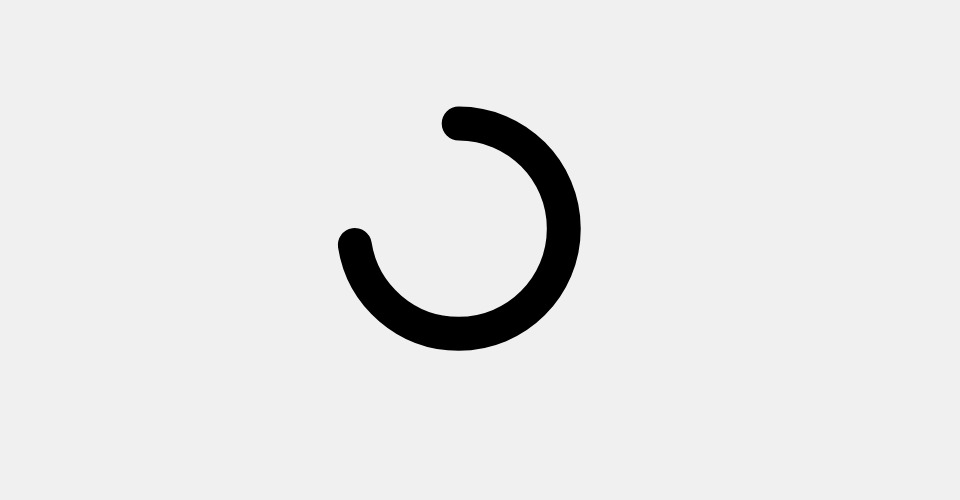
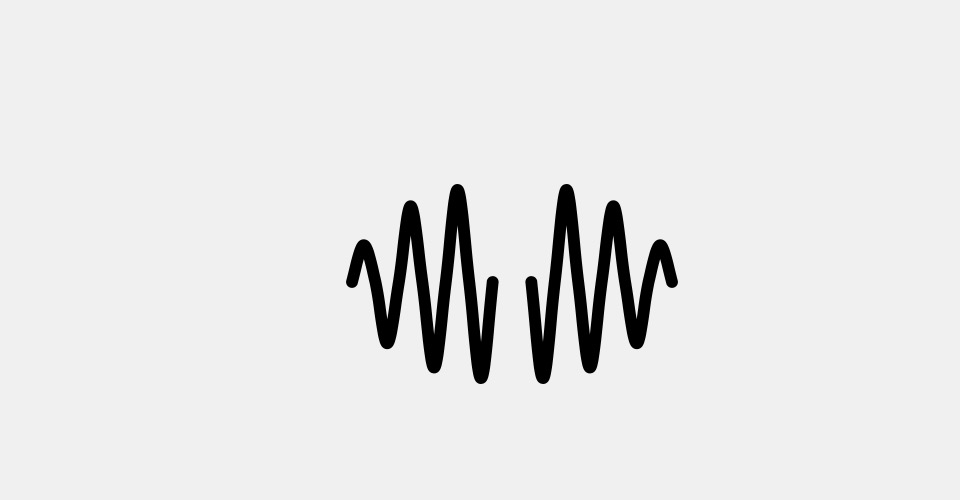
Concept two - wave

Changed region(s): [[0.3438, 0.21, 0.7188, 0.78]]

diff --git a/glyph.js b/glyph.js
@@ -27,29 +27,86 @@ function Glyph() {
    */ 
   this.draw = function(values, size) {
 
-    angleMode(DEGREES);
-    noFill();
-
     let hueValue = values[0];
     let satValue = values[1];
     let ligValue = values[2];
 
-    let strokeW = map(satValue,0,100,size/20,size/6);
-    let glyphRadius = map(ligValue,0,100,1, size-strokeW);
+    let pointNum = map(satValue,0,100,1,18);
+    let strokeW = map(ligValue,0,100,size/100,size/20);
 
-    translate(size/3,size/3);
-    rotate(-90);
+    var bounding = new WaveBoundingSphere(hueValue, size);
+
+    translate(size/2,size/2);
+    //rotate(-90);
 
     push();
-    //ellipse(0,0,size,size);
 
+    noFill();
+    stroke(0);
     strokeWeight(strokeW);
-    //ellipse(0, 0, this.radius, this.radius);
-    arc(0,0,glyphRadius,glyphRadius,0,hueValue);
-    //console.log(this.hueValue);
-    strokeWeight(strokeW/4);
-    //arc(0,0,glyphRadius,glyphRadius,0,hueValue);
+    //noStroke();
+
+    var pointX = -size/2;
+    var pos = -1;
+    beginShape();
+    curveVertex(-size/2,0);
+    for (var i = 1; i <= pointNum; i++) {
+      if(i % 2 == 0){
+        var pointY = bounding.returnY(pointX,pos);
+        pos = pos * -1;
+      } else {
+        var pointY = 0;
+      }
+      curveVertex(pointX, pointY);
+      // push();
+      // strokeWeight(1);
+      // stroke(0);
+      // ellipse(pointX,pointY,5,5);
+      // pop();
+      pointX += size/2/pointNum;
+    }
+    curveVertex(0,bounding.returnY(0)*pos);
+    endShape();
+
+    var pointX = size/2;
+    var pos = -1;
+    beginShape();
+    curveVertex(size/2,0);
+    for (var i = 1; i <= pointNum; i++) {
+      if(i % 2 == 0){
+        var pointY = bounding.returnY(pointX,pos);
+        pos = pos * -1;
+      } else {
+        var pointY = 0;
+      }
+      curveVertex(pointX, pointY);
+      // push();
+      // strokeWeight(1);
+      // stroke(0);
+      // ellipse(pointX,pointY,5,5);
+      // pop();
+      pointX -= size/2/pointNum;
+    }
+    curveVertex(0,bounding.returnY(0)*pos);
+    endShape();
+
     pop();
 
+  }
+
+  function WaveBoundingSphere(h,size) {
+    this.size = size;
+    this.height = map(h,0,360,0,size);
+
+    this.returnY = function(x,pos) {
+      var a = this.size/2;
+      var b = this.height/2;
+      var yP = b*sqrt(1-((x*x)/(a*a)));
+      if(x == 0){
+        return(this.height);
+      } else {
+      return(yP*pos);
+    }
+    }
   } 
 }

diff --git a/README.md b/README.md
@@ -2,11 +2,10 @@
 
 ### Color Glyphs
 
-Concept One - Code
+Concept Two - Wave
 
-I have coded the first of my concepts, that being the radial design. The glyph functions as expected, however upon the transition of going from a hue of 360 back to 0, the glyph jumps back to a dot, with no smooth transition between the two. This will hopefully be changed in further updates.
+The above code shows the start of my second concept, this proved to be quite the challenge to code, however I have managed to get it to a decent start, despite the few changes that need to be made, such as how the two waves do not connect to form the one wave for the glyph. Also the hue map needs to be altered so that the colder hues have a smaller wave height, and the warmer colours have a taller wave.
 
-The glyph functions very well in both the gradient and outlier modes, with the gradient showing a clear flow and the outlier being easily detectable.
-
+Other than those two changes I am very happy with how this concept turned out for the most part, now its just a matter of fixing the errors and developing from there.
 
 
